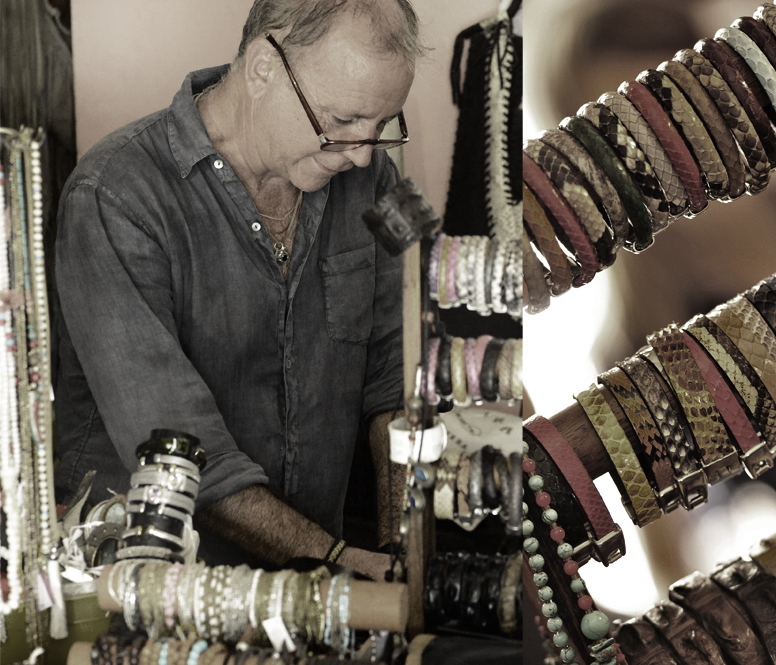
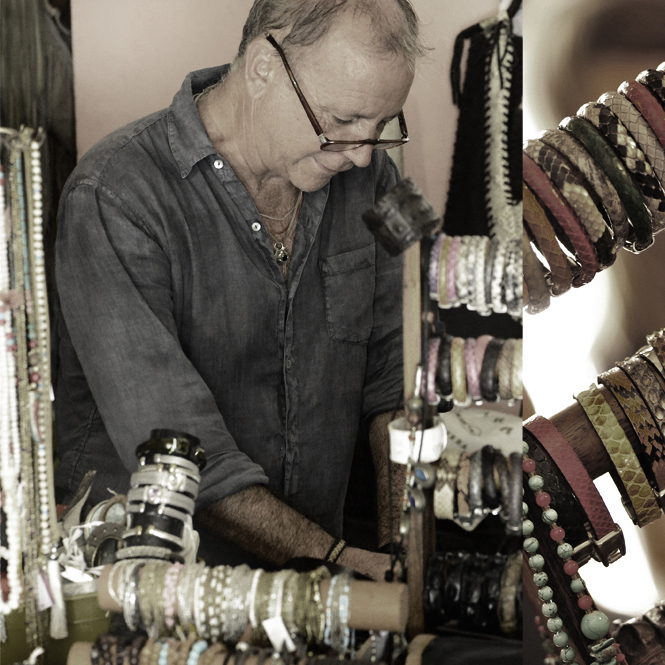
pages working + history placeholders

diff --git a/app/assets/stylesheets/spree/frontend/components/_navbar.scss b/app/assets/stylesheets/spree/frontend/components/_navbar.scss
@@ -232,7 +232,7 @@
       @include respond(phone) {
         left: 0;
       }
-      &:hover .nosotros{
+      &:hover .t_4{
        display: flex;
       @include respond(phone) {
         display: none;
@@ -248,7 +248,7 @@
 
 
 
-.t_1, .t_2, .t_3{
+.t_1, .t_2, .t_3, .t_4{
   display: none;
   &:hover{
     display: flex;
@@ -259,23 +259,6 @@
 }
 
 
-
-.regalos{
-    display: none;
-     &:hover{
-    display: flex;
-  }
-}
-
-.nosotros{
-  display: none;
-   &:hover{
-    display: flex;
-  }
-  h5{
-    white-space: nowrap;
-  }
-}
 
 
 .languages{

diff --git a/app/assets/stylesheets/spree/frontend/components/_square_card.scss b/app/assets/stylesheets/spree/frontend/components/_square_card.scss
@@ -134,7 +134,16 @@ $box-shadow-card: 0 1.5rem 5.5rem 0 rgba(0,0,0,0.04), 0 .2rem .4rem 0 rgba(0,0,0
 
 }
 
+.whole-width{
+  width: 100%;
+  height: calc((86.4vw ) / 2);
+  overflow: hidden;
 
+  &__picture{
+    width: 100%;
+    height: auto;
+  }
+}
 
 
 
